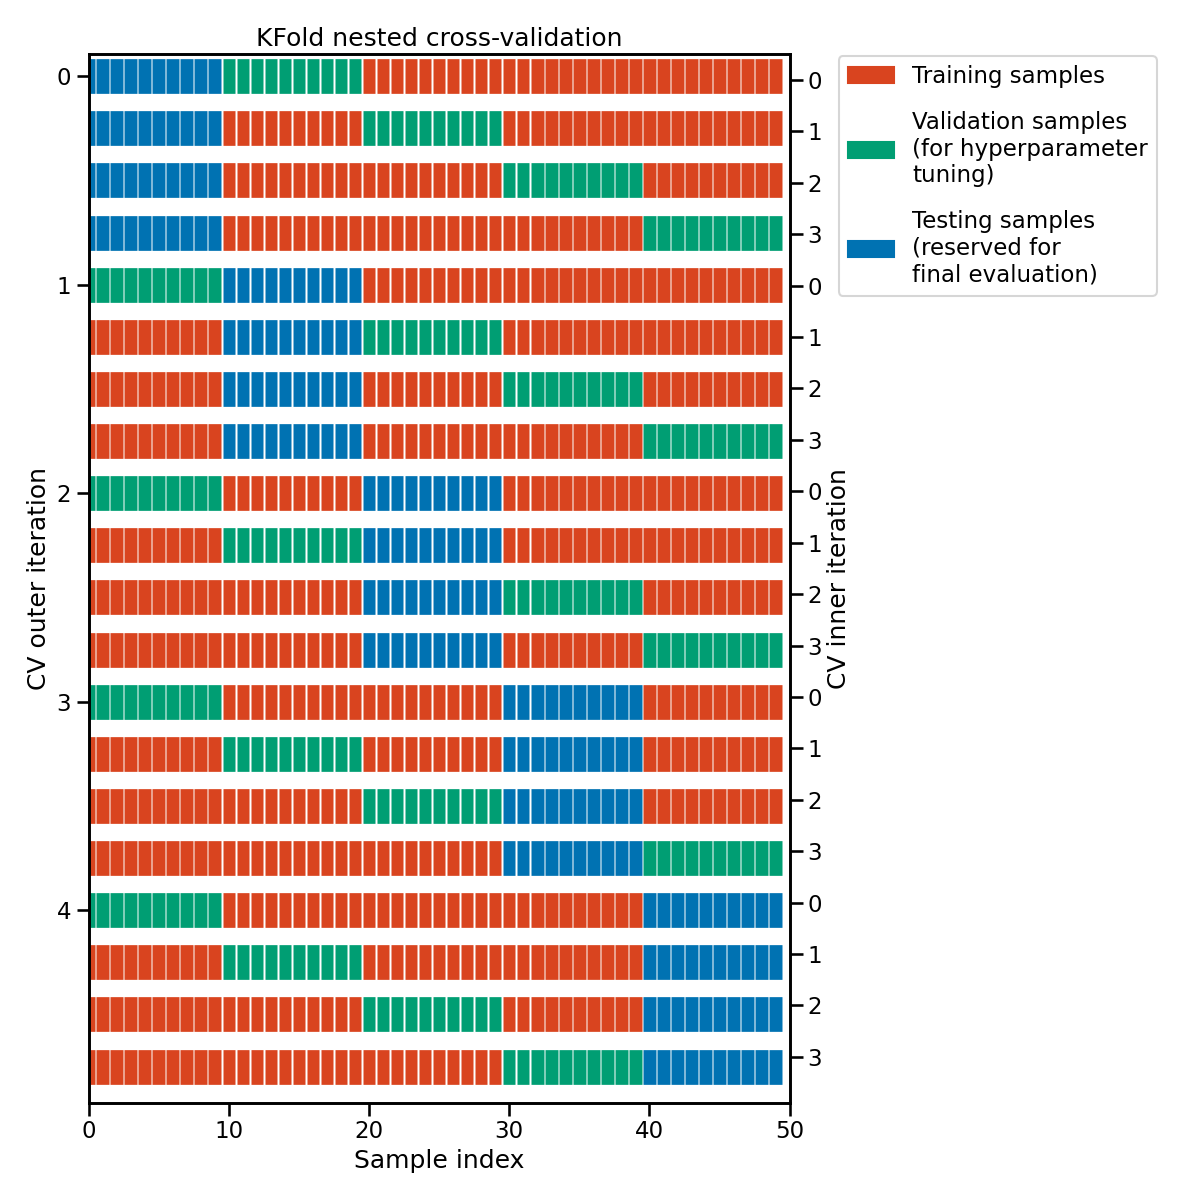
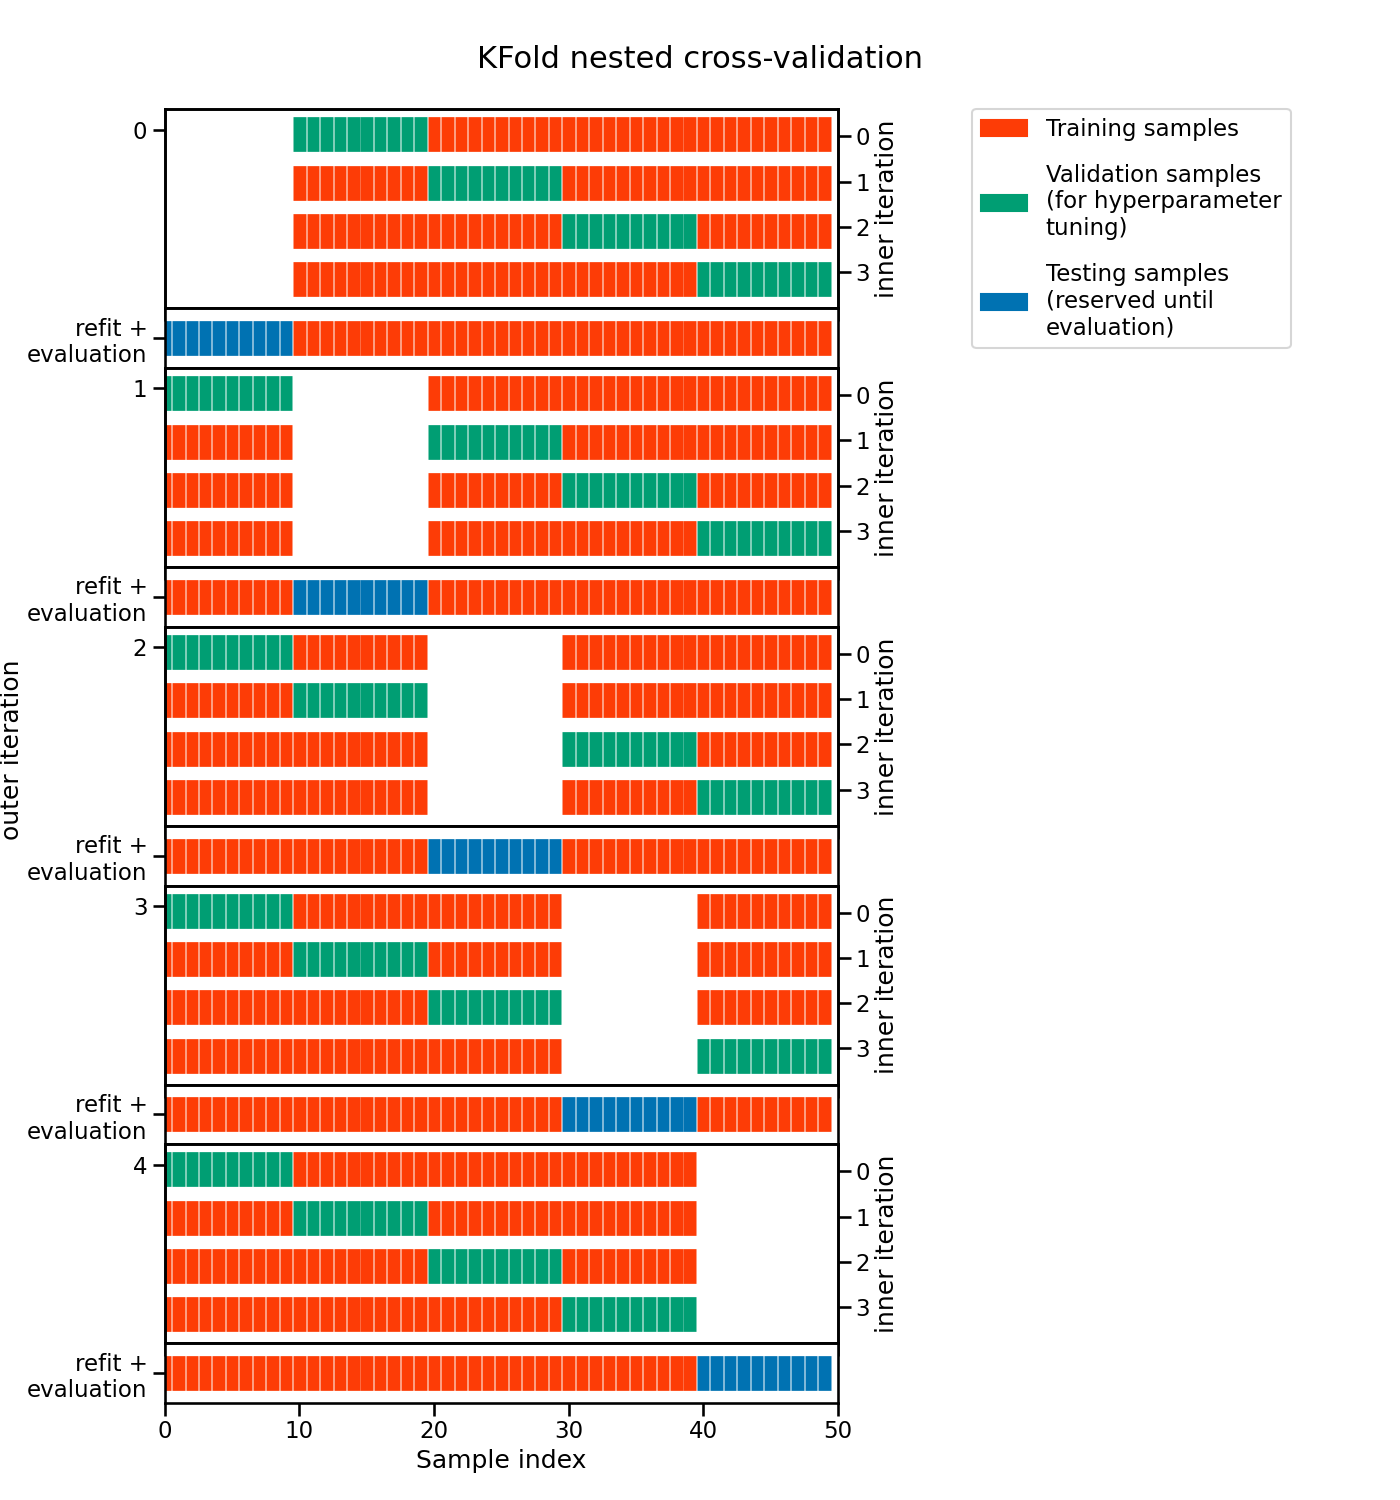
Better represent refitting and evaluation process

diff --git a/figures/plot_parameter_tuning_cv.py b/figures/plot_parameter_tuning_cv.py
@@ -1,6 +1,6 @@
 import matplotlib.pyplot as plt
 import numpy as np
-from matplotlib.colors import LinearSegmentedColormap
+from matplotlib.colors import ListedColormap
 from matplotlib.patches import Patch
 from pathlib import Path
 from sklearn.model_selection import KFold
@@ -9,16 +9,18 @@ from sklearn.model_selection import KFold
 FIGURES_FOLDER = Path(__file__).parent
 plt.style.use(FIGURES_FOLDER / "../python_scripts/matplotlibrc")
 
-colors = ["#009e73ff", "#fd3c06ff", "#0072b2ff"]
-cmap_name = "my_list"
-cmap_cv = LinearSegmentedColormap.from_list(cmap_name, colors=colors, N=8)
+colors_cv = ["#009e73ff", "#fd3c06ff", "white"]
+colors_eval = ["#fd3c06ff", "#fd3c06ff", "#0072b2ff"]
+cmap_cv = ListedColormap(colors=colors_cv)
+cmap_eval = ListedColormap(colors=colors_eval)
 
 
-def plot_cv_indices(cv, X, y, ax, lw=50):
+def plot_cv_indices(cv, X, y, axs):
     """Create a sample plot for indices of a cross-validation object
     embeded in a train-test split."""
     splits = list(cv.split(X=X, y=y))
     n_splits = len(splits)
+    ax1, ax2 = axs
 
     # Generate the training/testing visualizations for each CV split
     for ii, (train, test) in enumerate(splits):
@@ -28,7 +30,7 @@ def plot_cv_indices(cv, X, y, ax, lw=50):
         indices[X.shape[0] : X.shape[0] + 10] = 2
 
         # Visualize the results
-        ax.scatter(
+        ax1.scatter(
             range(len(indices)),
             [ii + 0.5] * len(indices),
             c=indices,
@@ -36,121 +38,168 @@ def plot_cv_indices(cv, X, y, ax, lw=50):
             lw=25,
             cmap=cmap_cv,
         )
+    ax2.scatter(
+        range(len(indices)),
+        [0.5] * len(indices),
+        c=indices,
+        marker="_",
+        lw=25,
+        cmap=cmap_eval,
+    )
 
     # Formatting
     yticklabels = list(range(n_splits))
-    ax.set(
+    ax1.set(
         yticks=np.arange(n_splits) + 0.5,
         yticklabels=yticklabels,
-        xlabel="Sample index",
         ylabel="CV iteration",
         ylim=[n_splits + 0.2, -0.2],
         xlim=[0, 50],
     )
-    ax.set_title(
-        "{} cross validation inside (non-shuffled-)train-test split".format(
-            type(cv).__name__
-        )
+
+    ax2.set(
+        yticks=[0.5],
+        yticklabels=[],
+        xlabel="Sample index",
+        ymargin=10,
+        ylim=[0.3, 0.7],
+        xlim=[0, 50],
     )
-    ax.legend(
+    ax2.set_ylabel("refit +\nevaluation",  labelpad=15)
+    ax2.legend(
         [
             Patch(color=cmap_cv(0.5)),
             Patch(color=cmap_cv(0.02)),
-            Patch(color=cmap_cv(0.9)),
+            Patch(color=cmap_eval(0.9)),
         ],
         [
             "Training samples",
             "Validation samples\n(for hyperparameter\ntuning)",
-            "Testing samples\n(reserved for\nfinal evaluation)",
+            "Testing samples\n(reserved until\nfinal evaluation)",
         ],
-        loc=(1.02, 0.04),
-        labelspacing = 1,
+        loc=(1.02, 1.1),
+        labelspacing=1,
     )
-    return ax
+    return
 
 
 n_points = 40
 X = np.random.randn(n_points, 10)
 y = np.random.randn(n_points)
 
-fig, ax = plt.subplots(figsize=(12, 4))
+fig, axs = plt.subplots(
+    ncols=1,
+    nrows=2,
+    sharex=True,
+    figsize=(12, 5),
+    gridspec_kw={"height_ratios": [5, 1.5], "hspace": 0},
+)
 cv = KFold(5)
-_ = plot_cv_indices(cv, X, y, ax)
+plot_cv_indices(cv, X, y, axs)
+plt.suptitle(
+            "Internal {} cross-validation in GridSearchCV".format(
+            type(cv).__name__),
+            y=0.95,
+            )
 plt.tight_layout()
 fig.savefig(FIGURES_FOLDER / "cross_validation_train_test_diagram.png")
 
 
-def plot_cv_nested_indices(cv_inner, cv_outer, X, y, ax, lw=50):
+def plot_cv_nested_indices(cv_inner, cv_outer, X, y, axs):
     """Create a sample plot for indices of a nested cross-validation object."""
     splits_outer = list(cv_outer.split(X=X, y=y))
     n_splits_outer = len(splits_outer)
 
     # Generate the training/testing visualizations for each CV split
-    for ii, (train_outer, test_outer) in enumerate(splits_outer):
+    for outer_index, (train_outer, test_outer) in enumerate(splits_outer):
         splits_inner = list(cv_inner.split(train_outer))
         n_splits_inner = len(splits_inner)
 
         # Fill in indices with the training/test groups
-        for jj, (train_inner, test_inner) in enumerate(splits_inner):
+        for inner_index, (train_inner, test_inner) in enumerate(splits_inner):
             indices = np.zeros(shape=X.shape[0], dtype=np.int32)
             indices[train_outer[train_inner]] = 1
             indices[test_outer] = 2
 
             # Visualize the results
-            ax.scatter(
+            axs[outer_index * 2].scatter(
                 range(len(indices)),
-                [n_splits_inner * ii + jj + 0.5] * len(indices),
+                [inner_index + 0.6] * len(indices),
                 c=indices,
                 marker="_",
                 lw=25,
                 cmap=cmap_cv,
             )
 
+        axs[outer_index*2 + 1].scatter(
+            range(len(indices)),
+            [0.5] * len(indices),
+            c=indices,
+            marker="_",
+            lw=25,
+            cmap=cmap_eval,
+        )
+        axs[outer_index*2 + 1].set(
+            yticks=[0.5],
+            yticklabels=["refit +\nevaluation"],
+            xlabel="Sample index",
+            ymargin=10,
+            ylim=[0.3, 0.7],
+            xlim=[0, 50],
+        )
+
     # Formatting
-    ax.set_title("{} nested cross-validation".format(type(cv_outer).__name__))
-    ax1 = ax.twinx()
-    yticklabels = n_splits_outer * list(range(n_splits_inner))
-    ax1.set(
-        yticks=np.arange(n_splits_outer * n_splits_inner) + 0.3,
-        yticklabels=yticklabels,
-        xlabel="Sample index",
-        ylabel="CV inner iteration",
-        ylim=[n_splits_outer * n_splits_inner + 0.2, -0.2],
-        xlim=[0, 50],
-    )
-    yticklabels = list(range(n_splits_outer))
-    ax.set(
-        yticks=n_splits_inner * np.arange(n_splits_outer) + 0.5,
-        yticklabels=yticklabels,
-        xlabel="Sample index",
-        ylabel="CV outer iteration",
-        ylim=[n_splits_outer * n_splits_inner + 0.2, 0.08],
-        xlim=[0, 50],
-    )
-    ax.legend(
+        ax_twin = axs[outer_index * 2].twinx()
+        yticklabels = list(range(n_splits_inner))
+        ax_twin.set(
+            yticks=np.arange(n_splits_inner) + 0.4,
+            yticklabels=yticklabels,
+            xlabel="Sample index",
+            ylabel="inner iteration",
+            ylim=[n_splits_inner + 0.2, -0.2],
+            xlim=[0, 50],
+        )
+
+        axs[outer_index * 2].set(
+            yticks=n_splits_inner * np.arange(n_splits_outer) + 0.5,
+            yticklabels=[outer_index] * n_splits_outer,
+            xlabel="Sample index",
+            ylim=[ n_splits_inner + 0.2, 0.08],
+            xlim=[0, 50],
+        )
+
+    axs[0].legend(
         [
             Patch(color=cmap_cv(0.5)),
             Patch(color=cmap_cv(0.02)),
-            Patch(color=cmap_cv(0.9)),
+            Patch(color=cmap_eval(0.9)),
         ],
         [
             "Training samples",
             "Validation samples\n(for hyperparameter\ntuning)",
-            "Testing samples\n(reserved for\nfinal evaluation)",
+            "Testing samples\n(reserved until\nevaluation)",
         ],
-        loc=(1.07, 0.77),
-        labelspacing = 1,
+        loc=(1.2, -0.2),
+        labelspacing=1,
     )
-    return ax
+    return
 
 
 n_points = 50
 X = np.random.randn(n_points, 10)
 y = np.random.randn(n_points)
 
-fig, ax = plt.subplots(figsize=(12, 12))
+fig, axs = plt.subplots(
+    ncols=1,
+    nrows=10,
+    sharex=True,
+    figsize=(14, 15),
+    gridspec_kw={"height_ratios": [5, 1.5] * 5, "hspace": 0},
+)
 cv_inner = KFold(n_splits=4, shuffle=False)
 cv_outer = KFold(n_splits=5, shuffle=False)
-_ = plot_cv_nested_indices(cv_inner, cv_outer, X, y, ax)
+plot_cv_nested_indices(cv_inner, cv_outer, X, y, axs)
+plt.suptitle("{} nested cross-validation".format(type(cv_outer).__name__), y=0.97)
 plt.tight_layout()
+fig.text(0.0, 0.5, "outer iteration", va="center", rotation="vertical")
 fig.savefig(FIGURES_FOLDER / "nested_cross_validation_diagram.png")
